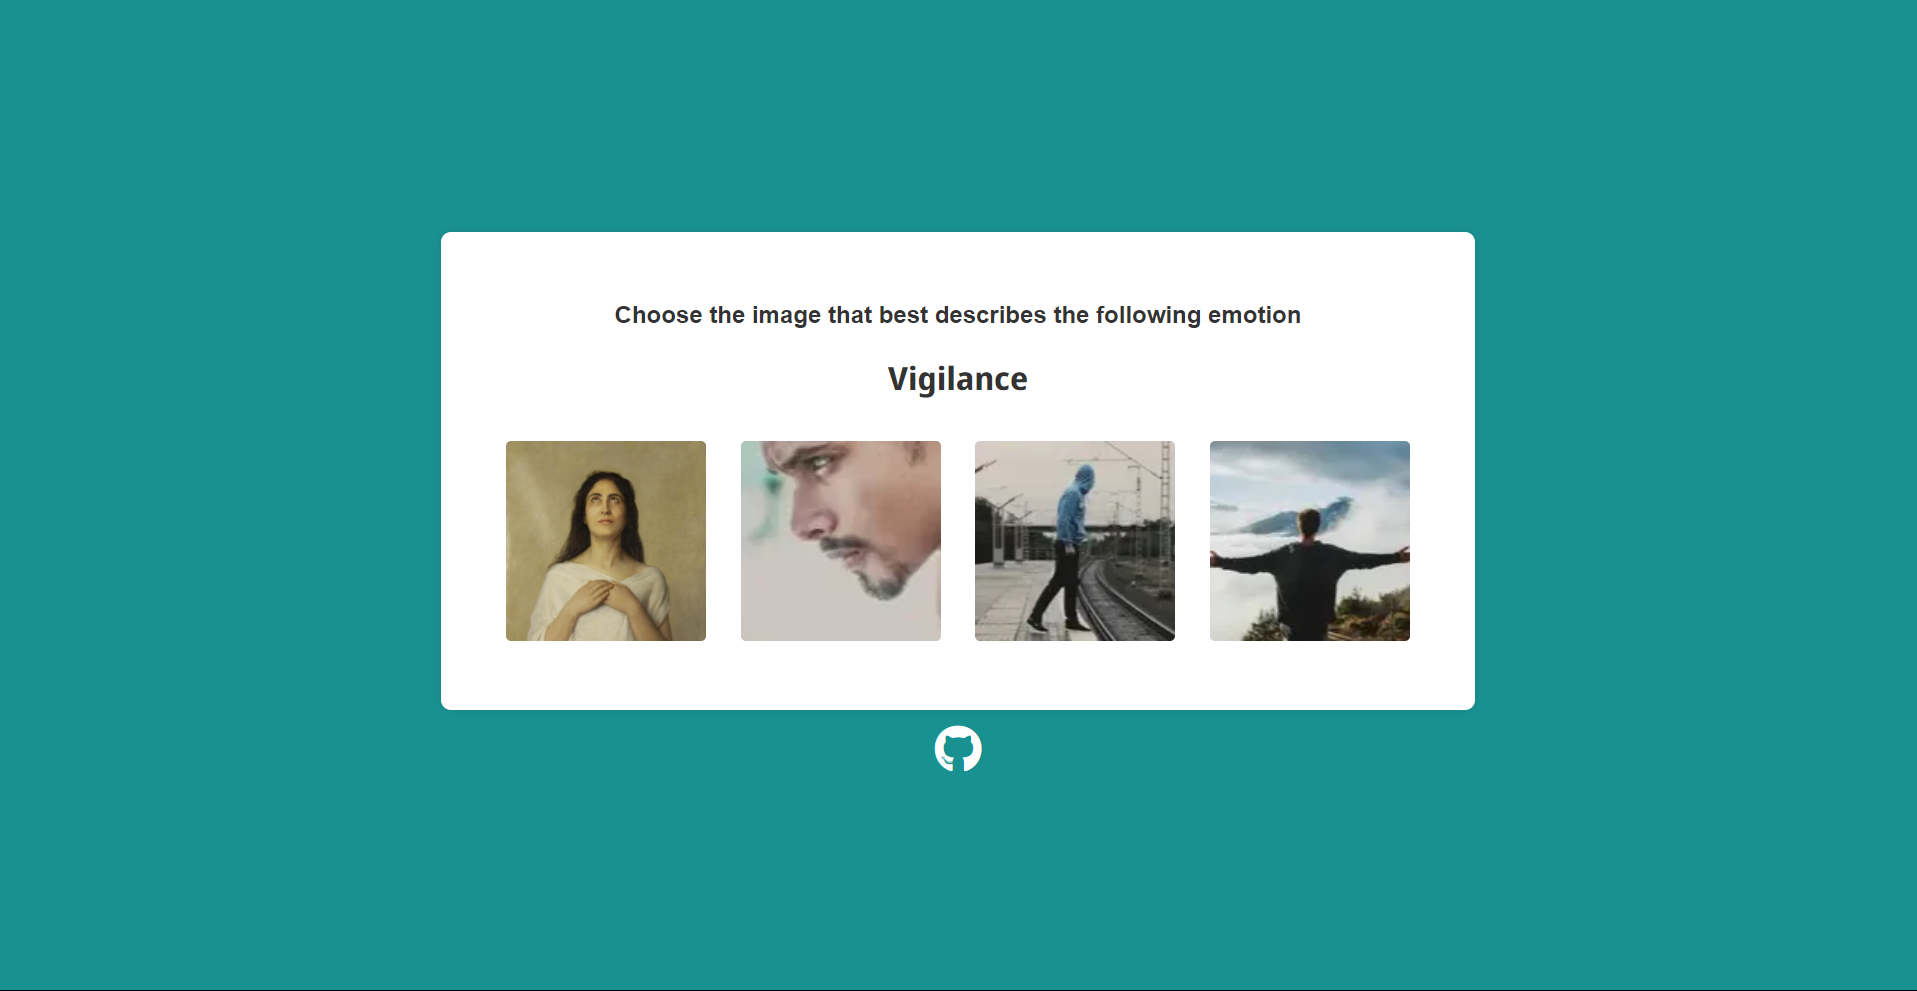
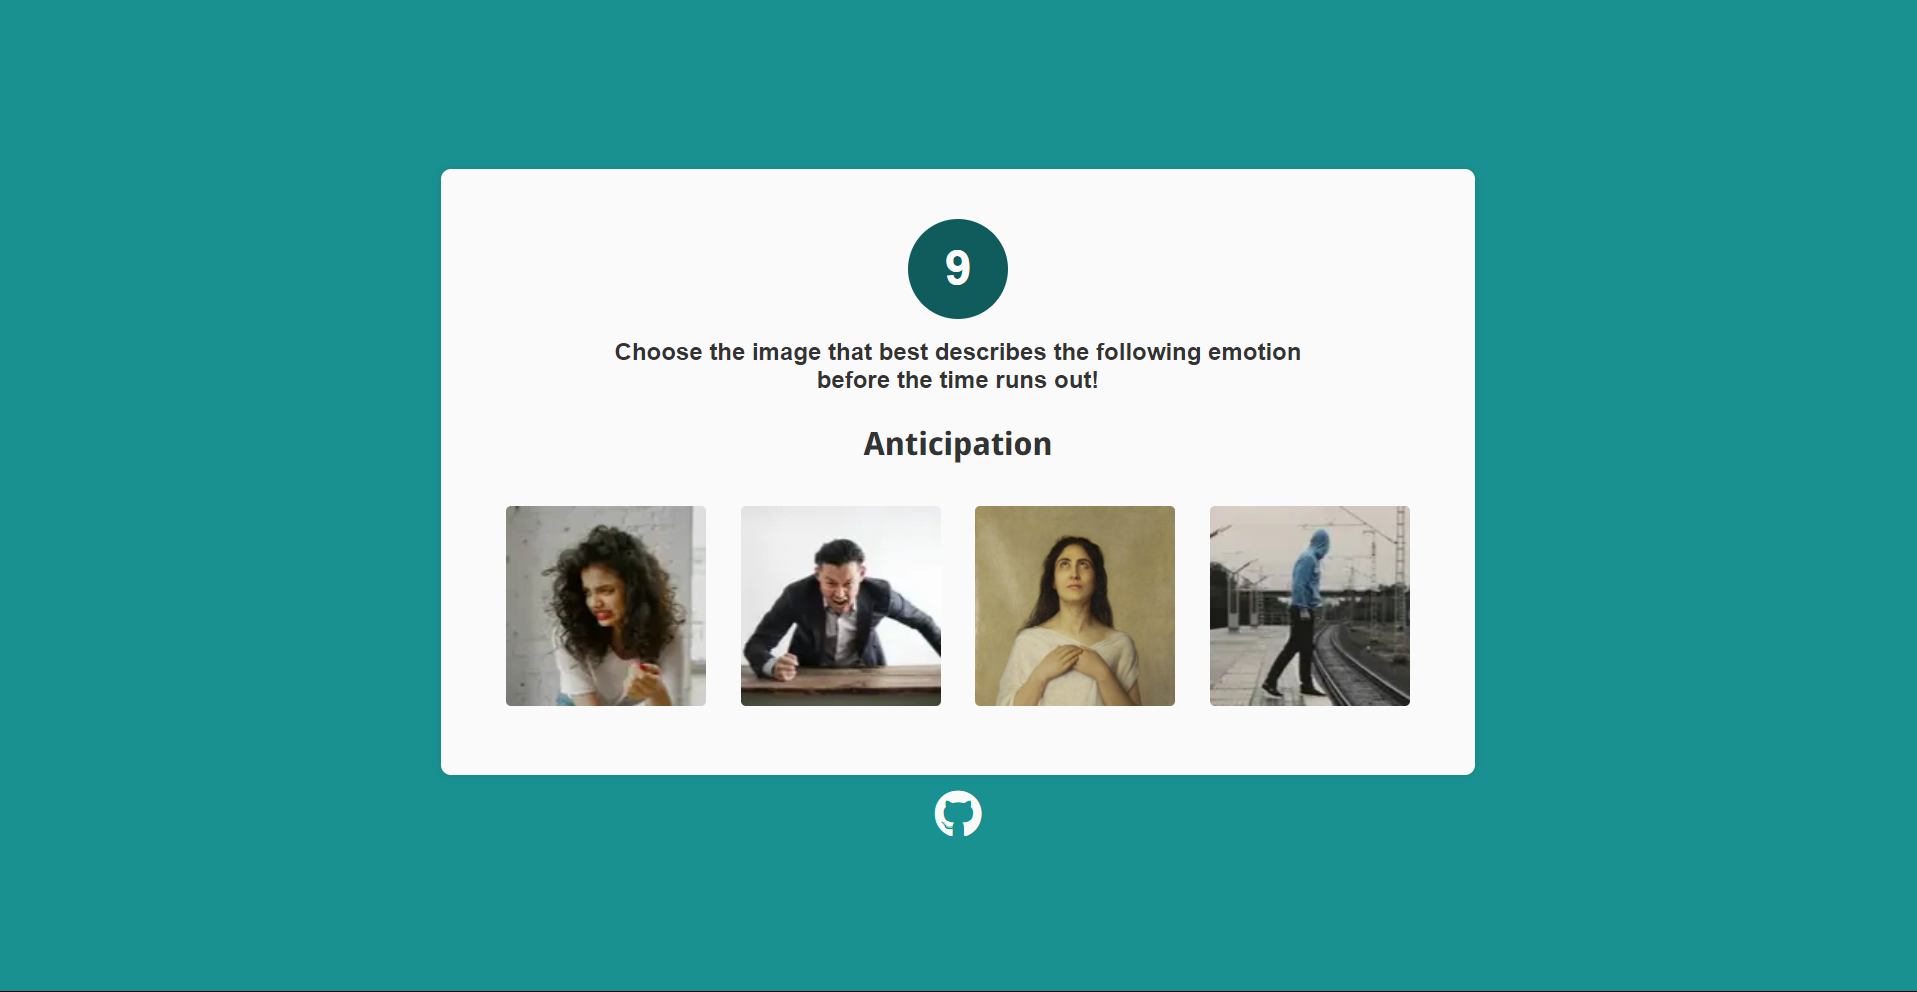
Add countdown section to Readme.md, update game-page screenshot

Changed region(s): [[0.2154, 0.4238, 0.7694, 0.8476], [0.2154, 0.1514, 0.7694, 0.3935]]

diff --git a/README.md b/README.md
@@ -49,6 +49,7 @@ The favicon was adapted from the original rendering of the Wheel of Emotions by 
 ### Motivation:
 
 By tracking and displaying the user’s score, the game provides a sense of achievement and encourages repeat play. Users are motivated to improve their scores and, consequently, their emotional literacy.
+The time creates a feeling of challenge and urgency, making the game more compelling.
 
 ## Features
 
@@ -73,6 +74,7 @@ The game page includes:
 
 - A short instruction
 - The emotion to be guessed
+- A countdown timer
 - Four images depicting different emotions
 - An icon linking to the project's GitHub page
 
@@ -80,12 +82,16 @@ When clicked, a box-shadow will appear around the image. It will be either green
 
 ![Screenshot of the game's quiz page](docs/game-page.png)
 
+#### Countdown
+
+To create a more dynamic experience, I added a countdown timer on top of the given emotion. The timer starts at 10 seconds and, when it drops to zero, a new round is started.
+If the user clicks, either correctly or incorrectly, on an image, the amount of seconds left in the timer are added to the overall score.
+
 ### Final score page
 
 The final score page includes:
 
-- A short message to the user
-- A tally with the correct answers
+- The users final score, being the additional of seconds left every round
 - A tally with the wrong answers
 - A short invitation to play one more time
 - A Restart button
@@ -100,7 +106,6 @@ The Instructions button will take the user back to the home page and the Restart
 - Add variations of images depending of user cultural background.
     - Since different cultures have different physical reactions and expression to different emotions, one interesting features to be implemented in the future could be a variation in images or emotions depending on the user's origin.
 
-- Add a counter to the game to increase the tension involved and make the game more involving.
 
 ## Usability
 
@@ -110,11 +115,11 @@ During each round, the game presents the user with four images, each depicting d
 
 1. `startNewGame()`: This function initializes a new game session, resetting the current round, score, incorrect answer count, and the list of correctly guessed emotions. It hides the home screen and displays the game screen.
 
-2. `nextRound()`: This function sets up the next round of the game. It randomly selects four emotions, ensuring that previously correctly guessed emotions are excluded, and assigns these emotions to the four images. One of these emotions is chosen as the correct answer, which is displayed at the top of the screen.
+2. `nextRound()`: This function sets up the next round of the game. It randomly selects four emotions, ensuring that previously correctly guessed emotions are excluded, and assigns these emotions to the four images. One of these emotions is chosen as the correct answer, which is displayed at the top of the screen. It also resets the countdown every round.
 
-3. `checkAnswer()`: This function is triggered when the user clicks on an image. It checks if the selected emotion matches the correct emotion. If correct, the image's border turns green, and if incorrect, it turns red. The game then waits for a short duration before proceeding to the next round or displaying the final score if all rounds are completed.
+3. `checkAnswer()`: This function is triggered when the user clicks on an image. It checks if the selected emotion matches the correct emotion. If correct, the image's border turns green, and if incorrect, it turns red. The game then waits for a short duration before proceeding to the next round or displaying the final score if all rounds are completed. This waiting time (0.7s) is for the user to be able to see the shadow-box colour change. This function then defines the time left in the countdown and adds it to the score.
 
-4. `showFinalScore()`: Once all rounds are completed, this function displays the user's final score, including the number of correct and incorrect answers.
+4. `showFinalScore()`: Once all rounds are completed, this function displays the user's final score by, including the number of incorrect answers.
 
 5. `restartGame()`: This function allows the user to restart the game without returning to the initial instruction screen, enabling continuous play and practice.
 
